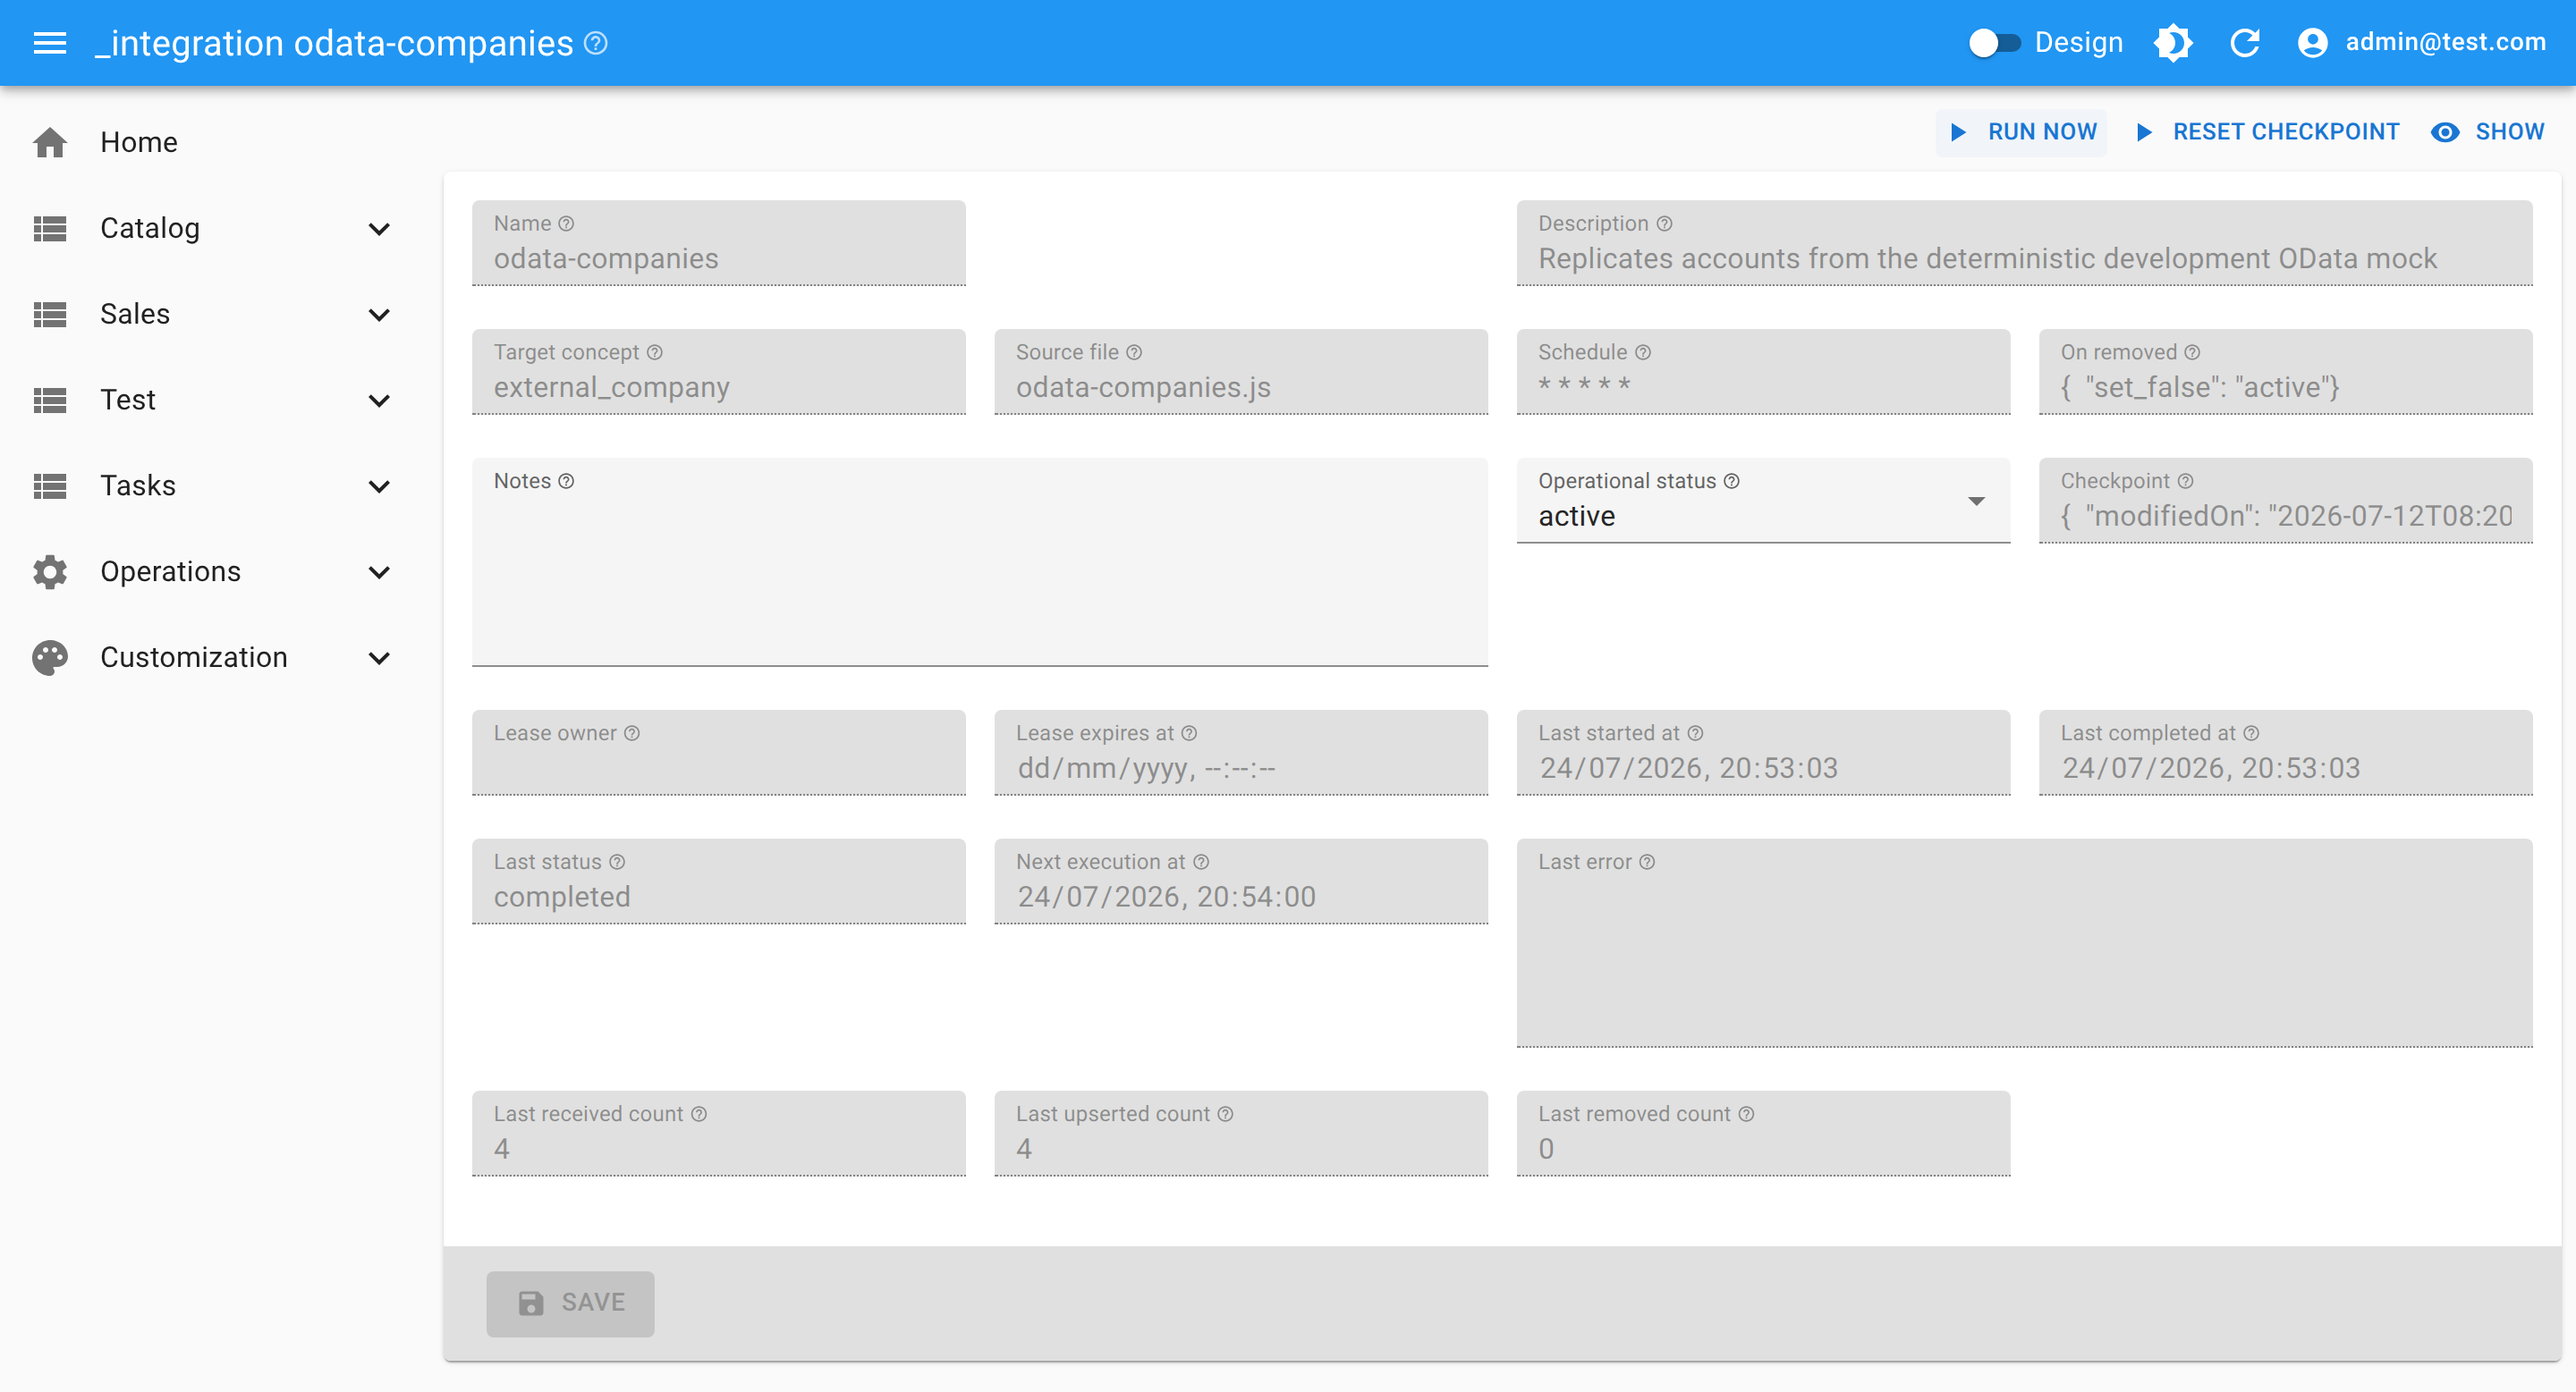
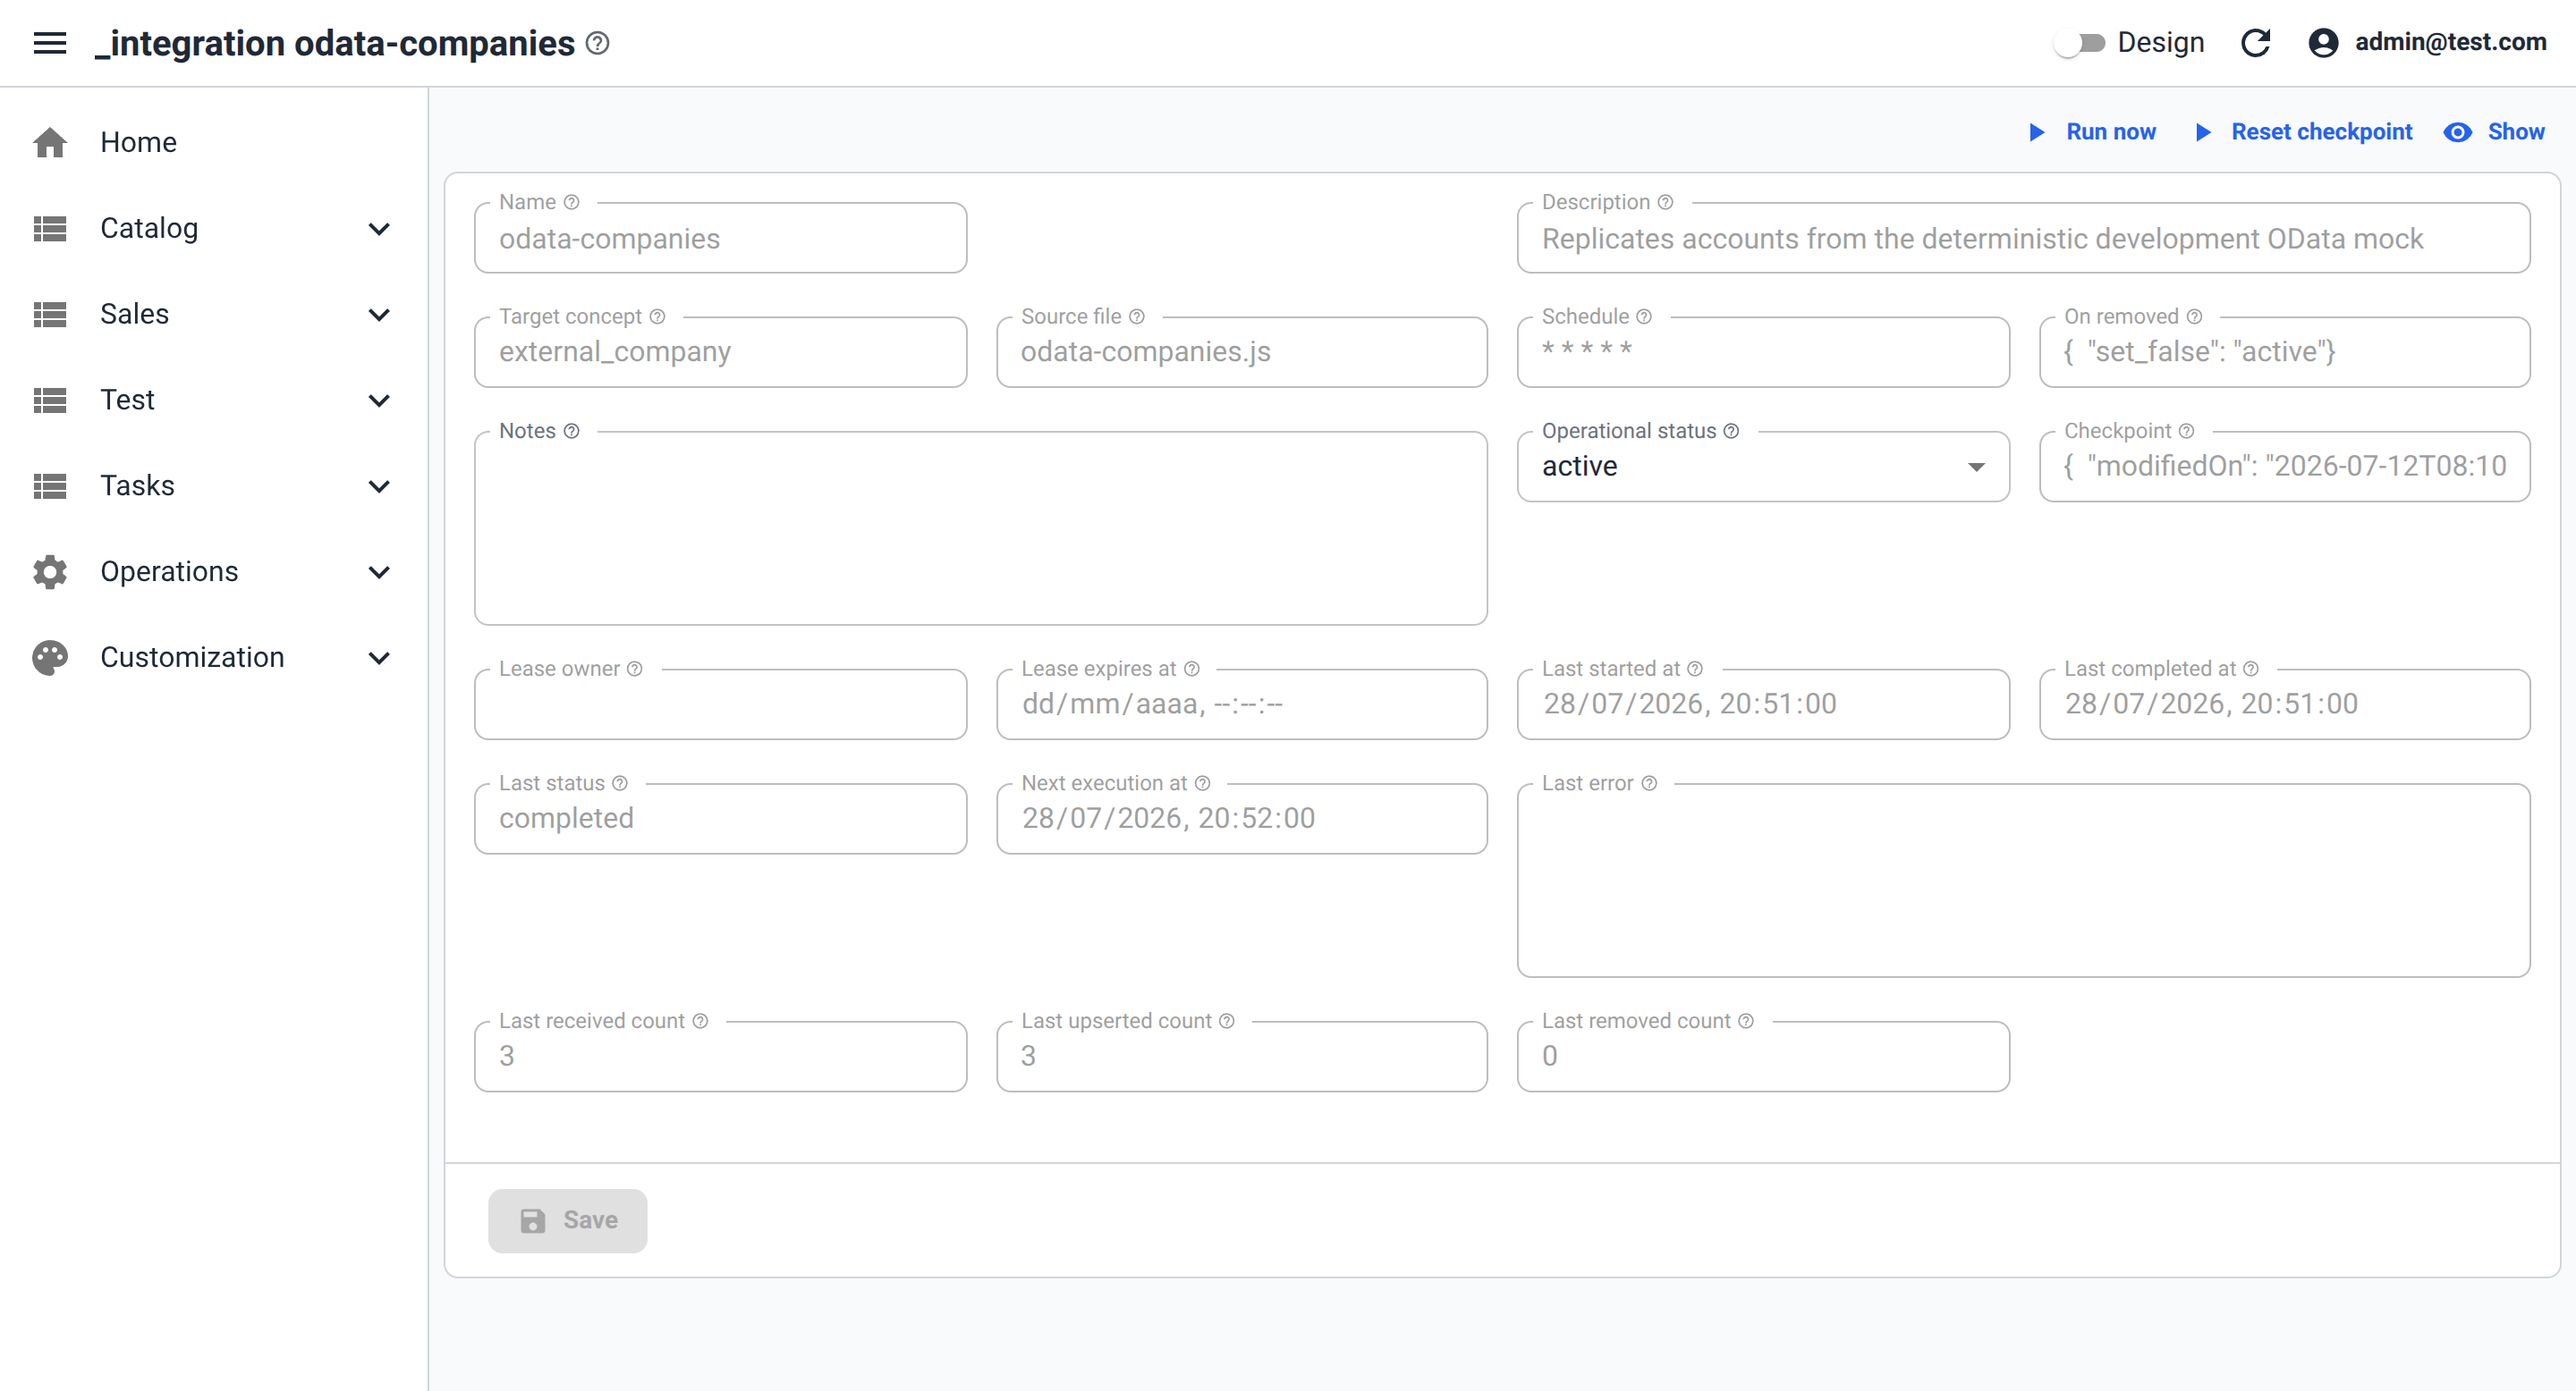
Theme the backoffice from the model's design tokens
The generated react-admin screens kept the stock material look while the
hand-written auth and portal pages had their own flat design, so moving
between them looked like moving between two products.

- New presentation/style/theme.js builds the react-admin theme out of the
  ACCENT/INK/MUTED/BORDER/BG/FONT tokens already exported by style/auth.jsx:
  a model that rebrands its auth pages now rebrands the admin UI with it,
  with no model change and nothing touched in the resource generators.
- Flat app bar and sidebar separated by hairlines, brand-tinted active menu
  item, uppercase muted datagrid headers, bordered cards instead of raised
  ones, outlined inputs replacing the grey filled ones.
- theme.js is overridable by name like auth.jsx, so a model can restyle the
  backoffice alone.
- Light theme only: passing `theme` retires react-admin's dark mode toggle,
  which neither the auth pages nor the portals ever offered.
- Retake the walkthrough and b2c screenshots with the new look.

diff --git a/src/unibizkit/generators/frontend/src/presentation/style/theme.py b/src/unibizkit/generators/frontend/src/presentation/style/theme.py
@@ -1,0 +1,136 @@
+def generate() -> str:
+    return """// ---------------------------------------------------------------------------
+// style/theme.js — the look & feel of the generated backoffice (react-admin).
+//
+// The palette is not defined here: it is read from the design tokens in
+// ./auth, so a model that rebrands the auth pages (its own
+// presentation/style/auth.jsx) rebrands the backoffice with it, and both
+// halves of the app — custom presentation pages and generated admin screens —
+// stay coherent.
+//
+// To restyle only the backoffice, place your own presentation/style/theme.js
+// in the model (same export): files under the model's presentation/style/
+// replace the generated ones by name.
+// ---------------------------------------------------------------------------
+import { defaultLightTheme } from 'react-admin';
+import { deepmerge } from '@mui/utils';
+import { alpha } from '@mui/material/styles';
+import * as tokens from './auth';
+
+// Read defensively: a model's own auth.jsx is free to export only the tokens
+// its pages use, and a missing one must fall back instead of blanking the UI.
+const INK = tokens.INK ?? '#1f2937';
+const MUTED = tokens.MUTED ?? '#6b7280';
+const BORDER = tokens.BORDER ?? '#d1d5db';
+const ACCENT = tokens.ACCENT ?? '#2563eb';
+const BG = tokens.BG ?? '#f9fafb';
+const FONT = tokens.FONT
+  ?? '-apple-system, BlinkMacSystemFont, "Segoe UI", Roboto, Helvetica, Arial, sans-serif';
+
+const SURFACE = '#ffffff';
+const ACCENT_SOFT = alpha(ACCENT, 0.1);
+
+// Merged over react-admin's own light theme, which carries invariants the
+// admin UI depends on (sidebar widths, full-width inputs, checkbox paddings).
+export const adminTheme = deepmerge(defaultLightTheme, {
+  palette: {
+    primary: { main: ACCENT, contrastText: '#fff' },
+    // react-admin's AppBar defaults to color="secondary": both roles carry the
+    // brand accent so no component falls back to the stock material blue.
+    secondary: { main: ACCENT, contrastText: '#fff' },
+    background: { default: BG, paper: SURFACE },
+    text: { primary: INK, secondary: MUTED },
+    divider: BORDER,
+    action: { hover: alpha(ACCENT, 0.04), selected: ACCENT_SOFT },
+  },
+  typography: {
+    fontFamily: FONT,
+    button: { textTransform: 'none', fontWeight: 600 },
+    h6: { fontWeight: 700 },
+  },
+  shape: { borderRadius: 8 },
+  components: {
+    // --- Frame: flat app bar and sidebar, separated by hairlines ------------
+    RaAppBar: {
+      // The component reads useThemeProps({ name: 'RaAppBar' }), so its
+      // color prop is overridable from here.
+      defaultProps: { color: 'inherit' },
+      styleOverrides: {
+        root: {
+          backgroundColor: SURFACE,
+          color: INK,
+          boxShadow: 'none',
+          borderBottom: `1px solid ${BORDER}`,
+        },
+      },
+    },
+    RaSidebar: {
+      styleOverrides: {
+        root: {
+          '& .RaSidebar-paper': {
+            backgroundColor: SURFACE,
+            borderRight: `1px solid ${BORDER}`,
+          },
+        },
+      },
+    },
+    RaMenuItemLink: {
+      styleOverrides: {
+        root: {
+          borderRadius: 6,
+          marginRight: 8,
+          marginLeft: 8,
+          paddingTop: 6,
+          paddingBottom: 6,
+          '&.RaMenuItemLink-active': {
+            color: ACCENT,
+            backgroundColor: ACCENT_SOFT,
+            fontWeight: 600,
+            '& .RaMenuItemLink-icon': { color: ACCENT },
+          },
+        },
+      },
+    },
+    // --- Surfaces: bordered cards instead of floating ones ------------------
+    MuiPaper: {
+      styleOverrides: {
+        // Only the resting elevation: menus, popovers and dialogs keep their
+        // shadow, which is what separates them from the page underneath.
+        elevation1: { boxShadow: 'none', border: `1px solid ${BORDER}` },
+      },
+    },
+    // --- Lists -------------------------------------------------------------
+    RaDatagrid: {
+      styleOverrides: {
+        root: {
+          '& .RaDatagrid-headerCell': {
+            backgroundColor: BG,
+            color: MUTED,
+            fontSize: 11,
+            fontWeight: 700,
+            textTransform: 'uppercase',
+            letterSpacing: 0.3,
+            borderBottom: `1px solid ${BORDER}`,
+          },
+          '& .RaDatagrid-row:hover': { backgroundColor: alpha(ACCENT, 0.04) },
+        },
+      },
+    },
+    // --- Forms -------------------------------------------------------------
+    // Bordered inputs, like the ones the auth pages draw, instead of the grey
+    // filled boxes react-admin defaults to.
+    MuiTextField: { defaultProps: { variant: 'outlined' } },
+    MuiFormControl: { defaultProps: { variant: 'outlined' } },
+    RaToolbar: {
+      styleOverrides: {
+        root: {
+          backgroundColor: 'transparent',
+          borderTop: `1px solid ${BORDER}`,
+        },
+      },
+    },
+    MuiButton: { defaultProps: { disableElevation: true } },
+    MuiChip: { styleOverrides: { root: { borderRadius: 4 } } },
+  },
+});
+"""

diff --git a/src/unibizkit/generators/frontend/__init__.py b/src/unibizkit/generators/frontend/__init__.py
@@ -27,6 +27,7 @@ from .src.devtools import (
 from .src.resources import resource
 from .src.presentation import model_js, router, custom_page
 from .src.presentation.style import auth as style_auth
+from .src.presentation.style import theme as style_theme
 from .src.presentation.lib import (
     auth as lib_auth, validations as lib_validations, format as lib_format,
     workflow as lib_workflow, storage as lib_storage, index as lib_index,
@@ -265,6 +266,9 @@ class ReactAdminGenerator:
         style_dir = pres_dir / "style"
         style_dir.mkdir(exist_ok=True)
         _write(style_dir / "auth.jsx", style_auth.generate())
+        # The backoffice theme reads its palette from those same tokens, so the
+        # rebrand above reaches the generated admin screens too.
+        _write(style_dir / "theme.js", style_theme.generate())
 
         # Shared helper library for custom presentation pages (presentation/*.jsx).
         lib_dir = pres_dir / "lib"

diff --git a/src/unibizkit/generators/frontend/src/app.py b/src/unibizkit/generators/frontend/src/app.py
@@ -166,6 +166,9 @@ import {{
   useNavigate as rrUseNavigate,
 }} from 'react-router-dom';
 import {{ dataProvider }} from './dataProvider';
+// Backoffice look & feel, built from the model's design tokens (see
+// presentation/style/theme.js).
+import {{ adminTheme }} from './presentation/style/theme';
 {customization_import}{layout_import}
 {auth_import}
 {sso_redirect_import}
@@ -223,6 +226,7 @@ const App = () => (
   <HashRouter future={{{{ v7_startTransition: true, v7_relativeSplatPath: true }}}}>{sso_redirect_element}
     <AdminContext
       dataProvider={{dataProvider}}{auth_prop}{i18n_prop}
+      theme={{adminTheme}}
       basename="/admin"
       routerProvider={{adminRouterProvider}}
       store={{store}}

diff --git a/docs/Frontend.md b/docs/Frontend.md
@@ -237,6 +237,8 @@ Apps with `authentication_required` also get a set of default pages in `src/pres
 
 Their look & feel lives in one overridable module, `presentation/style/auth.jsx` (design tokens plus the `Card`/`Field`/`Message`/`SubmitButton` primitives): a model **rebrands every auth page at once** by providing its own `presentation/style/auth.jsx` with the same exports — the pages themselves stay generated and keep receiving generator improvements (that is what `models/b2c-app` and `models/intranet-app` do). For structural redesigns beyond what the primitives allow, copy the page into the model's `presentation/pages/` under the same name: the model copy replaces the generated default. Pages are built only on React, react-router and the shared helper lib, so they keep working across react-admin/MUI upgrades.
 
+Those same design tokens also theme the **backoffice**: the generated `presentation/style/theme.js` reads `ACCENT`/`INK`/`MUTED`/`BORDER`/`BG`/`FONT` from `style/auth.jsx` and builds the react-admin theme from them, so a model that rebrands its auth pages gets an admin UI in the same palette and typography — without touching any generated resource, form or layout. A model that wants a different admin look (and only that) provides its own `presentation/style/theme.js` exporting `adminTheme`.
+
 Registration stays minimal (email + password) on purpose: mandatory profile fields (`required: "ask_after_login"`) are collected by a single post-login gate. The presentation router redirects any session that still misses them to `/complete-profile` — however the session was established: password login, registration confirmation link or SSO — and the admin backoffice keeps its own blocking dialog.
 
 The lib (`import { ... } from './presentation/lib'`, generated in `src/presentation/lib/`) wraps the Supabase client for custom pages: sessions (`useSession`, `useRequireSession`, `signIn`, `signUp`, `signOut`, `signInWithSso`), passwords (`changePassword`, `requestPasswordReset`, `completePasswordReset`), profiles (`useProfile`, `updateProfile`, `getMissingProfileFields`, `completeProfileFields`), plus formatting, storage, workflow and CSV-validation helpers — each documented where it is generated. The convention throughout: helpers return data and throw `Error` with a user-displayable message, and each page decides where to render it (inline alert, status bar, ...).
